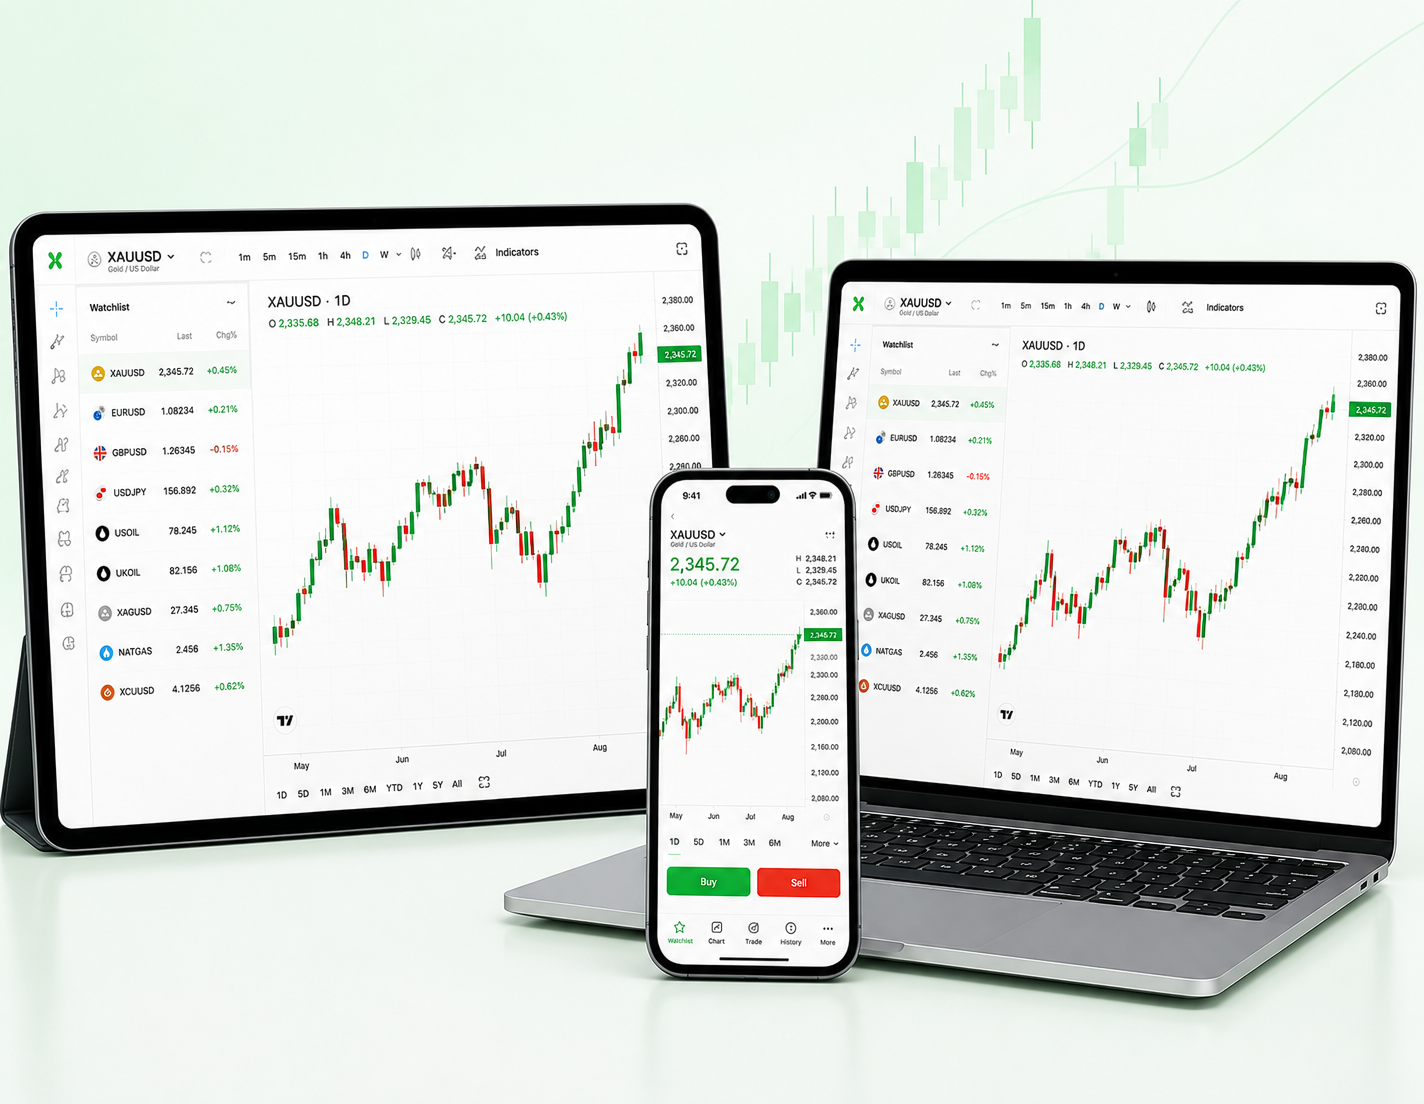
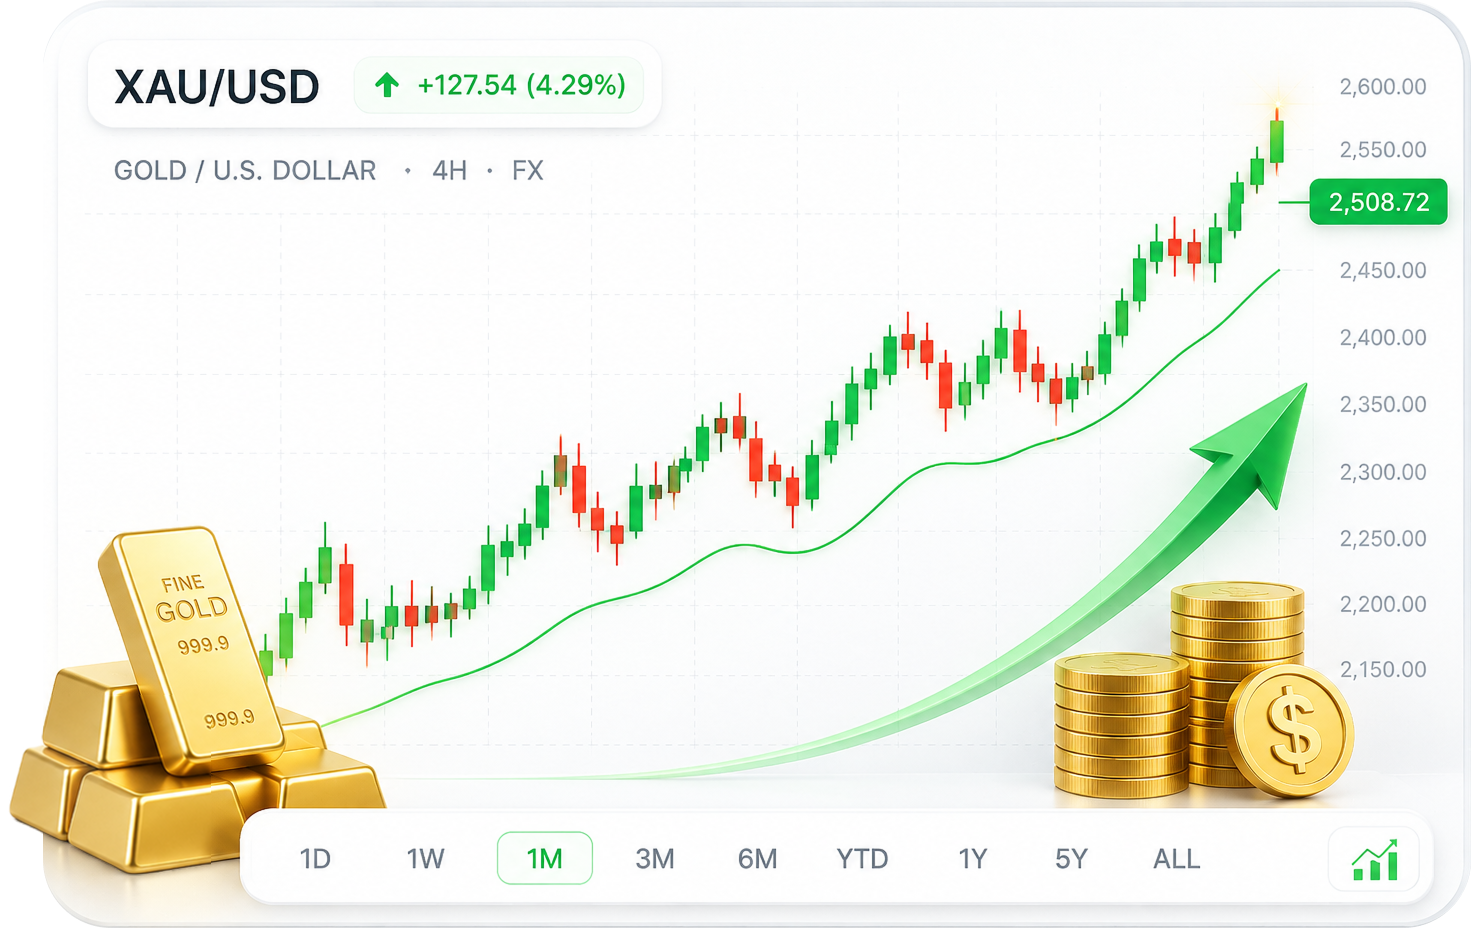
feat: add localization files, platform images, and new fee/platform pages

diff --git a/packages/ui/src/components/pages/FeesPage.tsx b/packages/ui/src/components/pages/FeesPage.tsx
@@ -18,6 +18,8 @@ const OTHER_CHARGES = [
 export interface CmsSpreadRow {
   instrument: string;
   symbol: string;
+  assetClass?: string | null;
+  leverage?: string | null;
   spread?: number | null;
   /** Dedicated RAW spread (preferred over computed value) */
   spreadRaw?: number | null;
@@ -26,6 +28,63 @@ export interface CmsSpreadRow {
   /** Dedicated VIP spread (preferred over computed value) */
   spreadVip?: number | null;
 }
+
+const DEFAULT_SPREAD_ROWS: CmsSpreadRow[] = [
+  {
+    instrument: 'EUR/USD',
+    symbol: 'EURUSD',
+    assetClass: 'forex',
+    leverage: '1:2000',
+    spreadRaw: 0.0,
+    spreadStandard: 0.8,
+    spreadVip: 1.2,
+  },
+  {
+    instrument: 'GBP/USD',
+    symbol: 'GBPUSD',
+    assetClass: 'forex',
+    leverage: '1:2000',
+    spreadRaw: 0.1,
+    spreadStandard: 1.0,
+    spreadVip: 1.5,
+  },
+  {
+    instrument: 'USD/JPY',
+    symbol: 'USDJPY',
+    assetClass: 'forex',
+    leverage: '1:2000',
+    spreadRaw: 0.1,
+    spreadStandard: 0.9,
+    spreadVip: 1.3,
+  },
+  {
+    instrument: 'Gold (XAU/USD)',
+    symbol: 'XAUUSD',
+    assetClass: 'commodities',
+    leverage: '1:1000',
+    spreadRaw: 1.2,
+    spreadStandard: 1.6,
+    spreadVip: 2.0,
+  },
+  {
+    instrument: 'US 30 (Dow Jones)',
+    symbol: 'US30',
+    assetClass: 'indices',
+    leverage: '1:500',
+    spreadRaw: 1.0,
+    spreadStandard: 1.4,
+    spreadVip: 1.8,
+  },
+  {
+    instrument: 'Bitcoin / USD',
+    symbol: 'BTCUSD',
+    assetClass: 'crypto',
+    leverage: '1:100',
+    spreadRaw: 8.0,
+    spreadStandard: 12.0,
+    spreadVip: 15.0,
+  },
+];
 
 interface FeesPageProps {
   /** Live instrument spread data from the CMS ProductsInstruments collection */
@@ -43,7 +102,44 @@ export function FeesPage({ spreadData }: FeesPageProps) {
     return v.toFixed(1);
   };
 
-  const displaySpreads = (spreadData ?? []).map((r) => {
+  const getSymbolType = (row: CmsSpreadRow) => {
+    if (row.assetClass) {
+      const ac = row.assetClass.toLowerCase();
+      if (ac === 'forex') return 'Forex';
+      if (ac === 'commodities') return 'Commodities';
+      if (ac === 'indices') return 'Indices';
+      if (ac === 'crypto') return 'Crypto';
+      if (ac === 'stocks') return 'Stocks';
+      return row.assetClass;
+    }
+    const name = row.instrument.toLowerCase();
+    if (
+      name.includes('gold') ||
+      name.includes('xau') ||
+      name.includes('silver') ||
+      name.includes('xag')
+    )
+      return 'Metals';
+    if (
+      name.includes('us 30') ||
+      name.includes('us 500') ||
+      name.includes('dow') ||
+      name.includes('sp500')
+    )
+      return 'Indices';
+    if (
+      name.includes('bitcoin') ||
+      name.includes('btc') ||
+      name.includes('eth') ||
+      name.includes('crypto')
+    )
+      return 'Crypto';
+    return 'Forex';
+  };
+
+  const rowsToDisplay = spreadData && spreadData.length > 0 ? spreadData : DEFAULT_SPREAD_ROWS;
+
+  const displaySpreads = rowsToDisplay.map((r) => {
     // Use dedicated fields when available; fall back to +0.8/+1.2 formula from legacy `spread`
     const base = r.spreadRaw ?? r.spread;
     const rawVal = r.spreadRaw ?? r.spread;
@@ -51,6 +147,8 @@ export function FeesPage({ spreadData }: FeesPageProps) {
     const vipVal = r.spreadVip ?? (base != null ? base + 1.2 : null);
     return {
       instrument: r.instrument,
+      symbol: r.symbol || r.instrument.replace(/[^A-Z]/g, ''),
+      type: getSymbolType(r),
       raw: fmt(rawVal ?? null),
       std: fmt(stdVal),
       vip: fmt(vipVal),
@@ -58,7 +156,7 @@ export function FeesPage({ spreadData }: FeesPageProps) {
   });
 
   // Ruled subtotal: the tightest RAW spread across the ledger — the receipt's "best line".
-  const rawNums = (spreadData ?? [])
+  const rawNums = rowsToDisplay
     .map((r) => r.spreadRaw ?? r.spread)
     .filter((v): v is number => v != null);
   const tightest = rawNums.length ? fmt(Math.min(...rawNums)) : null;
@@ -67,6 +165,15 @@ export function FeesPage({ spreadData }: FeesPageProps) {
     if (v === 'Free') return t('valueFree');
     if (v === 'Per-instrument') return t('valuePerInstrument');
     return v;
+  };
+
+  const safeTrans = (key: string, fallback: string) => {
+    try {
+      const val = t(key as any);
+      return !val || val.includes('.') ? fallback : val;
+    } catch {
+      return fallback;
+    }
   };
 
   return (
@@ -91,87 +198,101 @@ export function FeesPage({ spreadData }: FeesPageProps) {
         <ScrollReveal className="mx-auto max-w-[390px] md:max-w-2xl xl:max-w-[1200px]">
           <SectionKicker className="mb-5">{t('spreadsKicker')}</SectionKicker>
 
-          <div className="overflow-hidden rounded-[20px] border border-[#1b2b20] bg-[#080b09] shadow-2xl dark:border-[#1b2b20] dark:bg-[#080b09]">
-            {/* Receipt header strip */}
-            <div className="flex items-center justify-between border-b border-dashed border-[#1b2b20] bg-[#0d1410] px-5 py-3.5">
-              <span className="text-eyebrow font-mono uppercase text-gray-400">
-                {t('receiptStamp')}
-              </span>
-              <span className="flex items-center gap-1.5 font-bold text-[#00b050]">
-                <span className="h-2 w-2 animate-pulse rounded-full bg-[#00b050]" />
-                <span className="text-eyebrow font-mono uppercase">{t('spreadsKicker')}</span>
-              </span>
-            </div>
+          <div className="overflow-x-auto rounded-[20px] border border-[#1b2b20] bg-[#080b09] shadow-2xl dark:border-[#1b2b20] dark:bg-[#080b09]">
+            <div className="min-w-[640px]">
+              {/* Receipt header strip */}
+              <div className="flex items-center justify-between border-b border-dashed border-[#1b2b20] bg-[#0d1410] px-5 py-3.5">
+                <span className="text-eyebrow font-mono uppercase text-gray-400">
+                  {t('receiptStamp')}
+                </span>
+                <span className="flex items-center gap-1.5 font-bold text-[#00b050]">
+                  <span className="h-2 w-2 animate-pulse rounded-full bg-[#00b050]" />
+                  <span className="text-eyebrow font-mono uppercase">{t('spreadsKicker')}</span>
+                </span>
+              </div>
 
-            {/* Column header */}
-            <div className="grid grid-cols-[1fr_80px_80px_80px] border-b border-[#1b2b20] bg-[#0d1410] px-5 py-3">
-              <span className="text-eyebrow font-mono font-semibold uppercase text-gray-400">
-                {t('colInstrument')}
-              </span>
-              <span className="text-eyebrow text-end font-mono font-bold uppercase text-[#00b050]">
-                {t('colRaw')}
-              </span>
-              <span className="text-eyebrow text-end font-mono font-semibold uppercase text-gray-400">
-                {t('colStd')}
-              </span>
-              <span className="text-eyebrow text-end font-mono font-semibold uppercase text-gray-400">
-                {t('colVip')}
-              </span>
-            </div>
+              {/* Column header */}
+              <div className="grid grid-cols-[1.5fr_1fr_1fr_1fr_1fr_1fr] gap-4 border-b border-[#1b2b20] bg-[#0d1410] px-5 py-3">
+                <span className="text-eyebrow font-mono font-semibold uppercase text-gray-400">
+                  {safeTrans('colInstrument', 'INSTRUMENT')}
+                </span>
+                <span className="text-eyebrow text-center font-mono font-semibold uppercase text-gray-400">
+                  {safeTrans('colSymbol', 'SYMBOL')}
+                </span>
+                <span className="text-eyebrow text-center font-mono font-semibold uppercase text-gray-400">
+                  {safeTrans('colCategory', 'TYPE')}
+                </span>
+                <span className="text-eyebrow text-center font-mono font-bold uppercase text-[#00b050]">
+                  {safeTrans('colRaw', 'RAW')}
+                </span>
+                <span className="text-eyebrow text-center font-mono font-semibold uppercase text-gray-400">
+                  {safeTrans('colStd', 'STD')}
+                </span>
+                <span className="text-eyebrow text-center font-mono font-semibold uppercase text-gray-400">
+                  {safeTrans('colVip', 'VIP')}
+                </span>
+              </div>
 
-            {/* Data rows — hairline ruled, mono tabular-nums */}
-            {displaySpreads.length === 0 ? (
-              <p className="font-body text-body px-5 py-8 text-center text-gray-400">
-                {t('noSpreads')}
-              </p>
-            ) : (
-              <div className="divide-y divide-[#1b2b20]">
-                {displaySpreads.map((row) => (
-                  <div
-                    key={row.instrument}
-                    className="group grid grid-cols-[1fr_80px_80px_80px] items-center border-l-4 border-l-transparent px-5 py-[14px] transition-all duration-200 hover:border-l-[#00b050] hover:bg-[#00b050]/20"
+              {/* Data rows — hairline ruled, mono tabular-nums */}
+              {displaySpreads.length === 0 ? (
+                <p className="font-body text-body px-5 py-8 text-center text-gray-400">
+                  {t('noSpreads')}
+                </p>
+              ) : (
+                <div className="divide-y divide-[#1b2b20]">
+                  {displaySpreads.map((row) => (
+                    <div
+                      key={row.instrument}
+                      className="group grid grid-cols-[1.5fr_1fr_1fr_1fr_1fr_1fr] items-center gap-4 border-l-4 border-l-transparent px-5 py-[14px] transition-all duration-200 hover:border-l-[#00b050] hover:bg-[#00b050]/20"
+                    >
+                      <span className="font-body text-body font-semibold text-white transition-colors group-hover:text-[#00b050]">
+                        {row.instrument}
+                      </span>
+                      <span className="text-center font-mono text-xs font-bold tracking-wider text-[#00b050]">
+                        {row.symbol}
+                      </span>
+                      <span className="text-center font-mono text-xs font-medium uppercase text-gray-400">
+                        {row.type}
+                      </span>
+                      <span
+                        dir="ltr"
+                        className="text-body text-center font-mono font-bold tabular-nums text-[#00b050]"
+                      >
+                        {row.raw}
+                      </span>
+                      <span
+                        dir="ltr"
+                        className="text-body text-center font-mono tabular-nums text-gray-300 transition-colors group-hover:text-white"
+                      >
+                        {row.std}
+                      </span>
+                      <span
+                        dir="ltr"
+                        className="text-body text-center font-mono tabular-nums text-gray-300 transition-colors group-hover:text-white"
+                      >
+                        {row.vip}
+                      </span>
+                    </div>
+                  ))}
+                </div>
+              )}
+
+              {/* Ruled subtotal — tightest spread */}
+              {tightest && (
+                <div className="grid grid-cols-[1.5fr_1fr_1fr_1fr_1fr_1fr] items-center gap-4 border-t-2 border-[#00b050]/40 bg-[#0d1410] px-5 py-4">
+                  <span className="text-eyebrow col-span-3 font-mono font-bold uppercase text-white">
+                    {t('tightestSpread')}
+                  </span>
+                  <span
+                    dir="ltr"
+                    className="text-title text-center font-mono font-extrabold tabular-nums text-[#00b050]"
                   >
-                    <span className="font-body text-body font-semibold text-white transition-colors group-hover:text-[#00b050]">
-                      {row.instrument}
-                    </span>
-                    <span
-                      dir="ltr"
-                      className="text-body text-end font-mono font-bold tabular-nums text-[#00b050]"
-                    >
-                      {row.raw}
-                    </span>
-                    <span
-                      dir="ltr"
-                      className="text-body text-end font-mono tabular-nums text-gray-300 transition-colors group-hover:text-white"
-                    >
-                      {row.std}
-                    </span>
-                    <span
-                      dir="ltr"
-                      className="text-body text-end font-mono tabular-nums text-gray-300 transition-colors group-hover:text-white"
-                    >
-                      {row.vip}
-                    </span>
-                  </div>
-                ))}
-              </div>
-            )}
-
-            {/* Ruled subtotal — tightest spread */}
-            {tightest && (
-              <div className="grid grid-cols-[1fr_80px_80px_80px] items-center border-t-2 border-[#00b050]/40 bg-[#0d1410] px-5 py-4">
-                <span className="text-eyebrow font-mono font-bold uppercase text-white">
-                  {t('tightestSpread')}
-                </span>
-                <span
-                  dir="ltr"
-                  className="text-title text-end font-mono font-extrabold tabular-nums text-[#00b050]"
-                >
-                  {tightest}
-                </span>
-                <span className="col-span-2" />
-              </div>
-            )}
+                    {tightest}
+                  </span>
+                  <span className="col-span-2" />
+                </div>
+              )}
+            </div>
           </div>
 
           {/* Receipt footer action */}

diff --git a/packages/ui/src/components/pages/PlatformPage.tsx b/packages/ui/src/components/pages/PlatformPage.tsx
@@ -313,17 +313,15 @@ export function PlatformPage({ downloads }: PlatformPageProps) {
           </div>
 
           {/* Device mockup */}
-          <div className="relative mt-6 aspect-[1.33/1] w-full max-w-[460px] overflow-hidden rounded-[32px] bg-[#D4F5DD] p-3 shadow-[0_10px_32px_rgba(0,0,0,0.06)] xl:mt-0 xl:h-[340px] xl:w-[460px] xl:flex-shrink-0 dark:bg-[#0d2a15]">
-            <div className="relative h-full w-full overflow-hidden rounded-[22px]">
-              <Image
-                src="/images/platformSide.png"
-                alt="Platform across devices"
-                width={460}
-                height={340}
-                loading="lazy"
-                className="h-full w-full rounded-[22px] object-cover object-center"
-              />
-            </div>
+          <div className="relative mt-6 w-full max-w-[560px] overflow-hidden rounded-[24px] transition-transform duration-500 hover:scale-[1.02] sm:max-w-[600px] xl:mt-0 xl:w-[580px] xl:max-w-[490px] xl:flex-shrink-0">
+            <Image
+              src="/images/platformSide.png"
+              alt="Platform across devices"
+              width={1200}
+              height={900}
+              loading="lazy"
+              className="h-auto w-full rounded-[24px] object-contain"
+            />
           </div>
         </div>
       </section>
